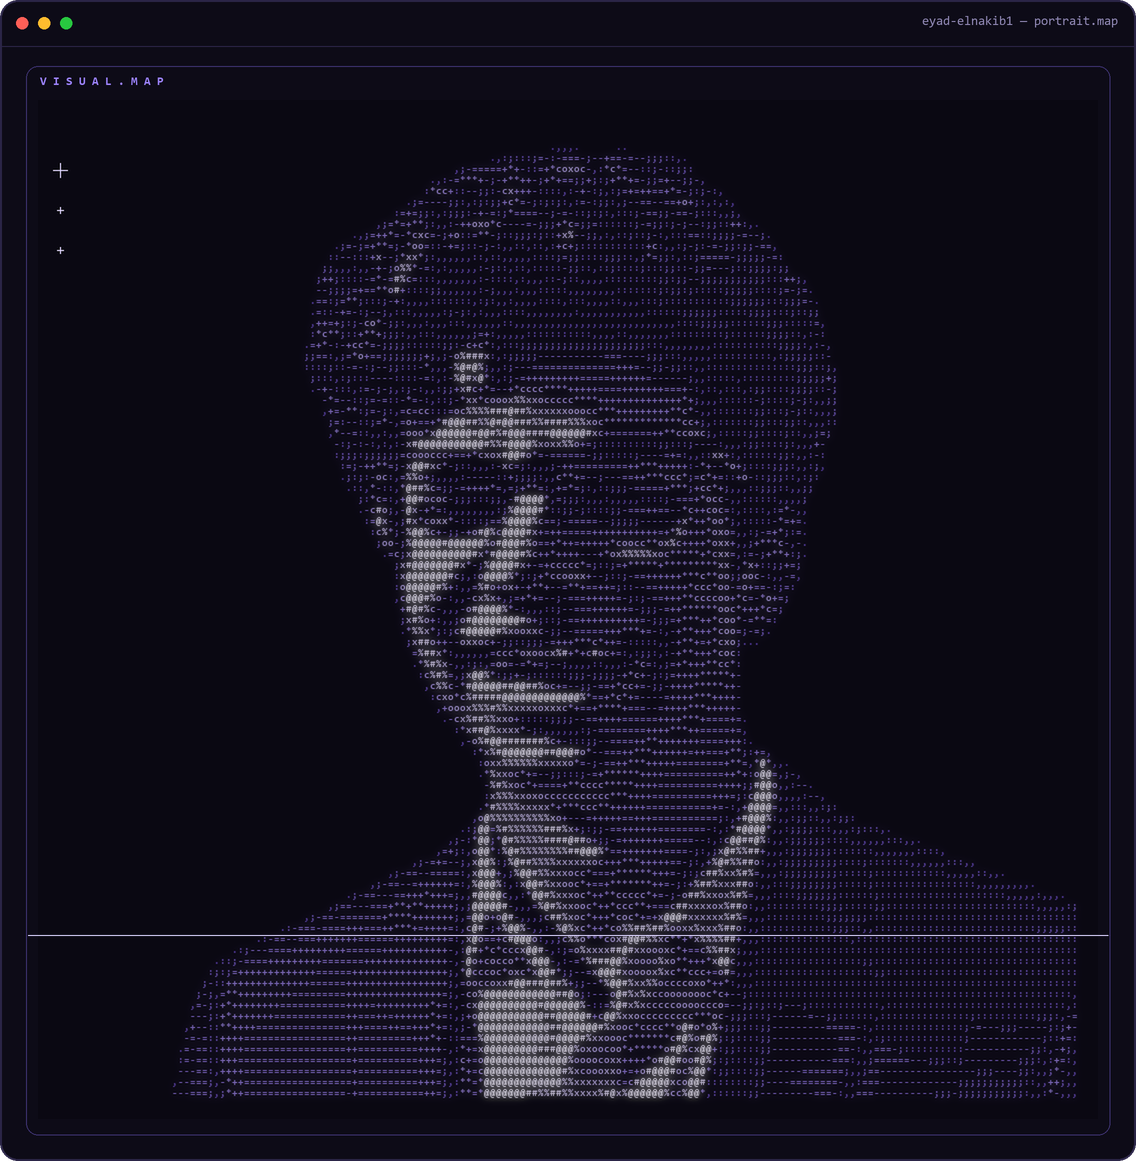
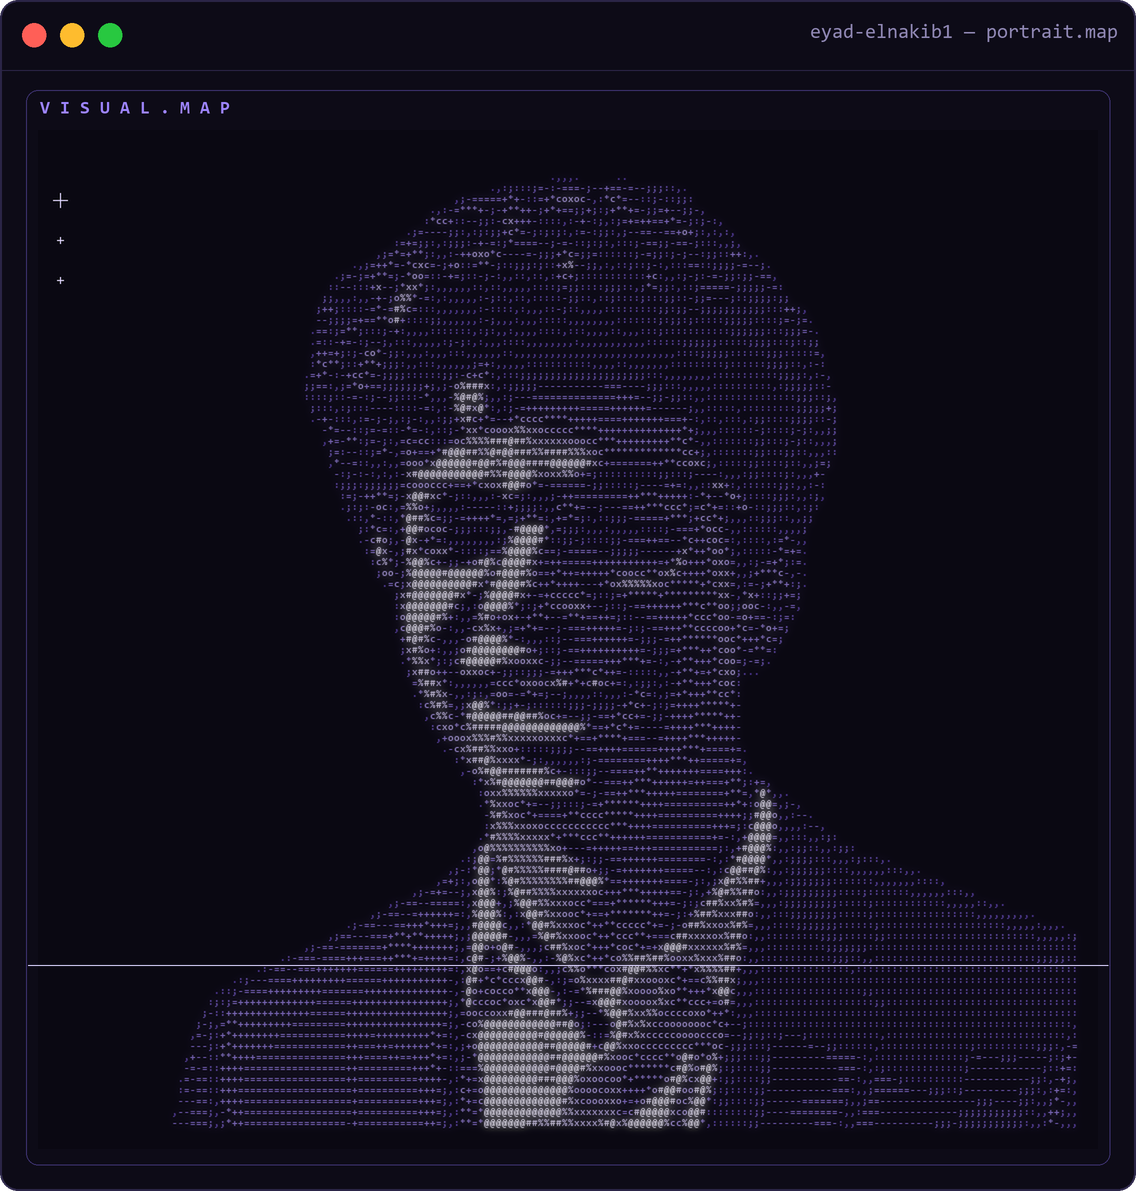
Profile: bigger portrait and window dots

Changed region(s): [[0.154, 0.124, 0.9551, 0.9612], [0.7086, 0.0, 0.9859, 0.062], [0.0, 0.0, 0.2157, 0.093]]

diff --git a/scripts/make_visuals.py b/scripts/make_visuals.py
@@ -136,19 +136,19 @@ def window(portrait_path, out_path):
     p = Image.open(portrait_path).convert("RGB")
     S = 2  # draw at 2x for sharp edges
     pw, ph = p.size
-    pad, bar, label_h = 26, 46, 34
+    pad, bar, label_h = 26, 70, 40
     W, H = pw + 2 * pad + 24, ph + bar + label_h + 2 * pad + 10
     img = Image.new("RGBA", (W * S, H * S), (0, 0, 0, 0))
     d = ImageDraw.Draw(img)
     d.rounded_rectangle([0, 0, W * S - 1, H * S - 1], radius=18 * S, fill="#0d0b17", outline="#2b2547", width=2 * S)
     d.line([(0, bar * S), (W * S, bar * S)], fill="#2b2547", width=S)
     for k, col in enumerate(("#ff5f57", "#febc2e", "#28c840")):
-        cx, cy = (22 + k * 22) * S, (bar // 2) * S
-        d.ellipse([cx - 6 * S, cy - 6 * S, cx + 6 * S, cy + 6 * S], fill=col)
-    font = ImageFont.truetype(r"C:\Windows\Fonts\consola.ttf", 13 * S)
-    small = ImageFont.truetype(r"C:\Windows\Fonts\consolab.ttf", 12 * S)
+        cx, cy = (34 + k * 38) * S, (bar // 2) * S
+        d.ellipse([cx - 12 * S, cy - 12 * S, cx + 12 * S, cy + 12 * S], fill=col)
+    font = ImageFont.truetype(r"C:\Windows\Fonts\consola.ttf", 20 * S)
+    small = ImageFont.truetype(r"C:\Windows\Fonts\consolab.ttf", 18 * S)
     t = "eyad-elnakib1 — portrait.map"
-    d.text(((W - 18) * S - d.textlength(t, font=font), (bar // 2 - 8) * S), t, font=font, fill="#8f87b3")
+    d.text(((W - 18) * S - d.textlength(t, font=font), (bar // 2 - 12) * S), t, font=font, fill="#8f87b3")
     x0, y0 = pad * S, (bar + pad - 6) * S
     x1, y1 = (W - pad) * S, (H - pad) * S
     d.rounded_rectangle([x0, y0, x1, y1], radius=12 * S, outline="#3d3270", width=S)

diff --git a/README.md b/README.md
@@ -1,5 +1,5 @@
 <p align="center">
-  <img src="assets/portrait-window.png" alt="Eyad Elnakib, drawn in characters, in a terminal window" width="440">
+  <img src="assets/portrait-window.png" alt="Eyad Elnakib, drawn in characters, in a terminal window" width="100%">
 </p>
 
 <h1 align="center">Eyad Elnakib</h1>
